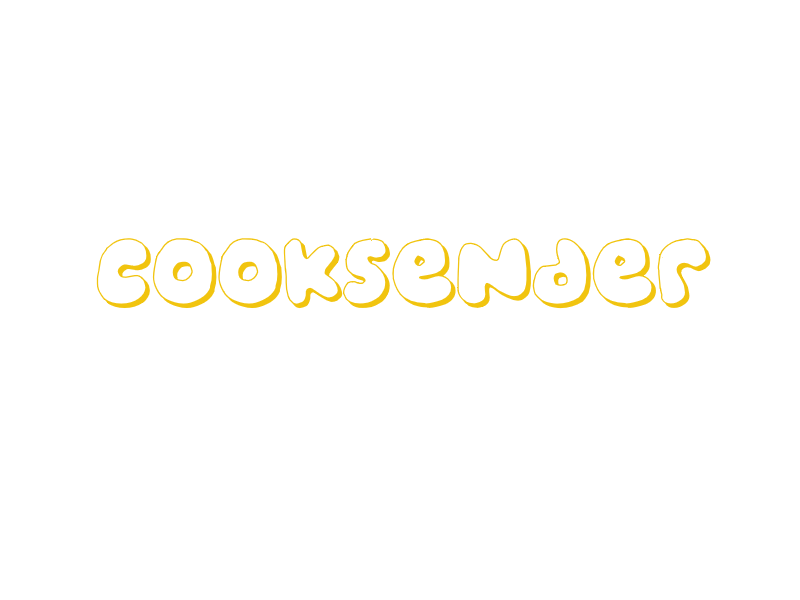
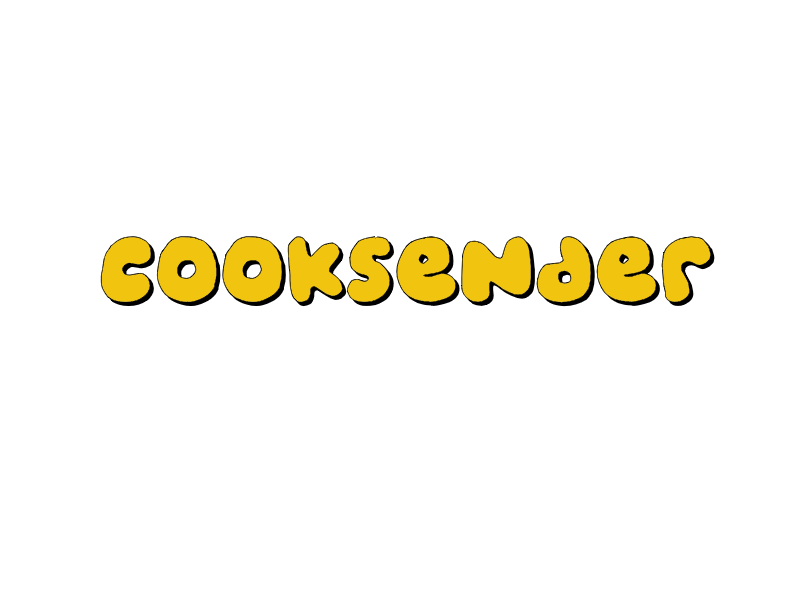
dernières modif

Changed region(s): [[0.125, 0.39, 0.9062, 0.51]]

diff --git a/components/Chat.js b/components/Chat.js
@@ -48,24 +48,31 @@ export default class Chat extends React.Component {
         Fire.off();
     }
 
-    render() {
-        console.log(this.state.messages);
-        return (
-            <SafeAreaView style={{ flex: 1, backgroundColor: "#F9E79F" }}>
-                <GiftedChat
-                    messages={this.state.messages}
-                    onSend={Fire.send}
-                    user={this.user}
-                    alwaysShowSend={false}
-                    isTyping={false}
-                    loadEarlier={true}
-                    showUserAvatar={false}
-                    showAvatarForEveryMessageue={true}
-                    renderMessage={this.renderBubble}
-                />
-            </SafeAreaView>
-        );
-    }
+    // render() {
+    //     console.log(this.state.messages);
+    //     return (
+    //         <SafeAreaView style={{ flex: 1, backgroundColor: "#F9E79F" }}>
+    //             <GiftedChat
+    //                 parsePatterns={linkStyle => [
+    //                     {
+    //                         pattern: /#(\w+)/,
+    //                         style: { ...linkStyle, color: 'purple' },
+    //                         onPress: props => console.warn(props),
+    //                     },
+    //                 ]}
+    //                 messages={this.state.messages}
+    //                 onSend={Fire.send}
+    //                 user={this.user}
+    //                 alwaysShowSend={false}
+    //                 isTyping={false}
+    //                 loadEarlier={true}
+    //                 showUserAvatar={false}
+    //                 showAvatarForEveryMessageue={true}
+    //                 renderMessage={this.renderBubble}
+    //             />
+    //         </SafeAreaView>
+    //     );
+    // }
 
     renderBubble = (props) => {
         let username = props.currentMessage.user.name;
@@ -95,56 +102,64 @@ export default class Chat extends React.Component {
         }
     }
 
-    render(){
+    render() {
         console.log(this.state.messages)
         return (
-            <SafeAreaView style={{flex:1, backgroundColor: '#F9E79F'}}>
-                <GiftedChat 
-                messages={this.state.messages}
-                onSend={Fire.send} 
-                user={this.user} 
-                alwaysShowSend={false}
-                loadEarlier={true}
-                renderMessage={this.renderBubble}
-                showUserAvatar={true}
-                showAvatarForEveryMessageue={true}
-                />    
-                
+            <SafeAreaView style={{ flex: 1, backgroundColor: '#F9E79F' }}>
+                <GiftedChat
+                    parsePatterns={linkStyle => [
+                        {
+                            pattern: /#(\w+)/,
+                            style: { ...linkStyle, color: 'purple' },
+                            onPress: props => console.warn(props),
+                        },
+                    ]}
+                    messages={this.state.messages}
+                    onSend={Fire.send}
+                    user={this.user}
+                    alwaysShowSend={false}
+                    loadEarlier={true}
+                    renderMessage={this.renderBubble}
+                    showUserAvatar={true}
+                    showAvatarForEveryMessageue={true}
+                />
+
             </SafeAreaView>
         )
     }
 
-    renderBubble = props => {
-        let username = props.currentMessage.user.name
-        let color = this.getColor(username)
-    
-        return (
-          <Bubble
-            {...props}
-            textStyle={{
-              right: {
-                color: 'white',
+    // renderBubble = props => {
+    //     let username = props.currentMessage.user.name
+    //     let color = this.getColor(username)
 
-              }
-            }}
-            wrapperStyle={{
-              left: {
-                backgroundColor: color,
-                marginLeft: 5,
-                marginVertical: 5},
-            }}
-          />
-        )
-      }
-    
-      getColor(username){
-        let sumChars = 0;
-        for(let i = 0;i < username.length;i++){
-          sumChars += username.charCodeAt(i);
-        }
-        const colors = this.state.colors;
-        return colors[sumChars % colors.length];
-    }
+    //     return (
+    //         <Bubble
+    //             {...props}
+    //             textStyle={{
+    //                 right: {
+    //                     color: 'white',
+
+    //                 }
+    //             }}
+    //             wrapperStyle={{
+    //                 left: {
+    //                     backgroundColor: color,
+    //                     marginLeft: 5,
+    //                     marginVertical: 5
+    //                 },
+    //             }}
+    //         />
+    //     )
+    // }
+
+    // getColor(username) {
+    //     let sumChars = 0;
+    //     for (let i = 0; i < username.length; i++) {
+    //         sumChars += username.charCodeAt(i);
+    //     }
+    //     const colors = this.state.colors;
+    //     return colors[sumChars % colors.length];
+    // }
 }
 
 const styles = StyleSheet.create({});

diff --git a/components/Main.js b/components/Main.js
@@ -32,14 +32,11 @@ import {
           flex:1
         }          
         }>
-          <View style={{marginTop : 64}}>
-            <Image 
-              source={require("../assets/cooksender_title.png")} 
-              style={{width: 190, height: 190, alignSelf: "center", marginTop:-130}}/>
-              <Image 
-              source={require("../assets/chat-icon.png")} 
-              style={{width: 100, height: 100, alignSelf: "center", marginTop:-80}}/>
-          </View>
+           <View style={{ marginTop: 100 }}>
+        <Image
+          source={require("../assets/cooksender_title.png")}
+          style={{ width: 250, height: 250, alignSelf: "center", marginTop: -150 }} />
+      </View>
           <View style={{marginHorizontal: 32}}>
           <Text style={styles.title}>Entrez votre Pseudo : </Text>
           <TextInput
@@ -74,8 +71,8 @@ import {
       fontWeight: "bold",
       fontSize: 30,
       color: "#514E5A",
-      marginTop: 30,
-      marginTop: offset,
+      marginTop: -80,
+      // marginTop: offset,
       marginLeft: offset,
       fontSize:offset,
     },
